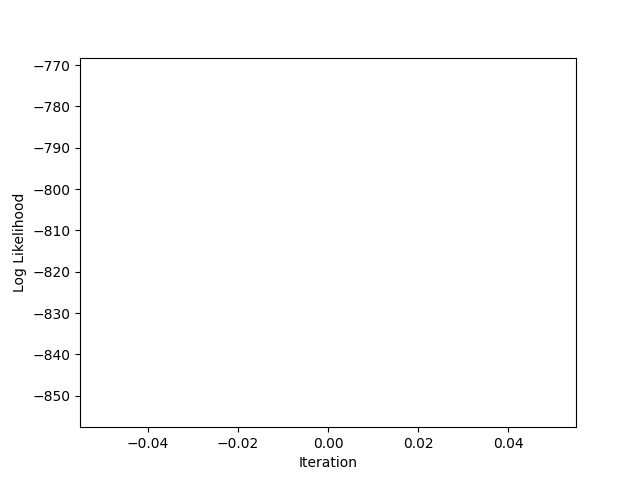
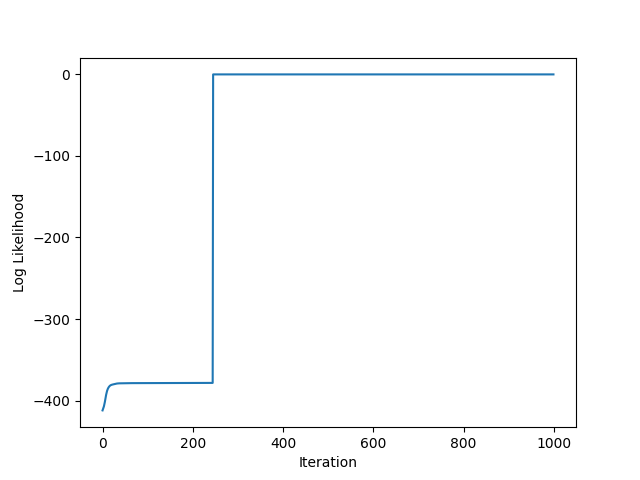
trained model

diff --git a/starterCode/nlputil.py b/starterCode/nlputil.py
@@ -16,7 +16,7 @@ import sys
 #                             (i.e., this maps strings to matrices).
 #
 # There are parallel methods included for working with either word-based or character-based models.
-# In both cases, unknown words will always map to integer value 0. 
+# In both cases, unknown words will always map to integer value 0.
 
 # Note -- File IO is slow, so it's best if you can keep as much data in RAM as possible.
 # Converting to a word-based one-hot representation is EXTREMELY memory intensive (many huge vectors of ints).
@@ -43,7 +43,7 @@ def build_vocab_words(paths, sample_size):
             with open(os.path.join(path, filename), encoding='utf-8') as fh:
                 sequence = fh.read()
                 tokenized_seq = sequence.split()
-                if len(tokenized_seq) < 250 and len(tokenized_seq) > 0:
+                if len(tokenized_seq) < 100 and len(tokenized_seq) > 0:
                     for token in tokenized_seq:
                         if token not in vocab:
                             vocab[token] = nextValue
@@ -58,6 +58,8 @@ def build_vocab_words(paths, sample_size):
     return vocab, int_to_word_map
 
 # Same as above, but for character models.
+
+
 def build_vocab_chars(paths, sample_size):
     vocab = {}
     nextValue = 0
@@ -85,12 +87,14 @@ def build_vocab_chars(paths, sample_size):
 # where N is the number of tokens in the sequence.
 def convert_words_to_ints(sample, vocab):
     sequence = sample.split()
-    answer =  np.zeros(len(sequence), dtype=np.uint)
+    answer = np.zeros(len(sequence), dtype=np.uint)
     for n, token in enumerate(sequence):
         answer[n] = vocab.get(token, 0)
     return answer
 
 # Same as above, but for characters.
+
+
 def convert_chars_to_ints(sample, vocab):
     answer = np.zeros(len(sample), dtype=np.uint)
     for n, token in enumerate(sample):
@@ -104,21 +108,23 @@ def convert_chars_to_ints(sample, vocab):
 # size observed on the training data.
 def convert_words_to_onehot(sample, vocab):
     sequence = sample.split()
-    onehot =  np.zeros((len(sequence), len(vocab)+1), dtype=np.uint)
+    onehot = np.zeros((len(sequence), len(vocab)+1), dtype=np.uint)
     for n, token in enumerate(sequence):
         onehot[n, vocab.get(token, 0)] = 1
     return onehot
 
 # Same as above, but for characters.
+
+
 def convert_chars_to_onehot(sample, vocab):
     onehot = np.zeros((len(sample), len(vocab)+1), dtype=np.uint)
     for n, token in enumerate(sample):
-        onehot[n, vocab.get(token, 0)]  = 1
+        onehot[n, vocab.get(token, 0)] = 1
     return onehot
 
 
 # Read every file located at given path, convert to one-hot OR integer representation,
-# and collect the results into a python list. 
+# and collect the results into a python list.
 def load_and_convert_data_words_to_onehot(paths, vocab):
     data = []
     for path in paths:
@@ -128,6 +134,8 @@ def load_and_convert_data_words_to_onehot(paths, vocab):
     return data
 
 # Same as above, but uses a character model
+
+
 def load_and_convert_data_chars_to_onehot(paths, vocab):
     data = []
     for path in paths:
@@ -136,6 +144,7 @@ def load_and_convert_data_chars_to_onehot(paths, vocab):
                 data.append(convert_chars_to_onehot(fh.read(), vocab))
     return data
 
+
 def load_and_convert_data_words_to_ints(paths, vocab, sample_size):
     data = []
     count = 0
@@ -143,7 +152,7 @@ def load_and_convert_data_words_to_ints(paths, vocab, sample_size):
         for filename in os.listdir(path):
             with open(os.path.join(path, filename), encoding='utf-8') as fh:
                 sample = convert_words_to_ints(fh.read(), vocab)
-                if len(sample) > 0 and len(sample) < 250:
+                if len(sample) > 0 and len(sample) < 100:
                     data.append(sample)
                     count += 1
             if count >= sample_size/2:
@@ -154,6 +163,8 @@ def load_and_convert_data_words_to_ints(paths, vocab, sample_size):
     return data
 
 # Same as above, but uses a character model
+
+
 def load_and_convert_data_chars_to_ints(paths, vocab, sample_size):
     data = []
     count = 0
@@ -169,10 +180,11 @@ def load_and_convert_data_chars_to_ints(paths, vocab, sample_size):
         if count == sample_size:
             break
     return data
-    
+
+
 if __name__ == '__main__':
-    print("NLP Util smoketest.");
-    paths =  ['../data/imdbFor246/train/pos', '../data/imdbFor246/train/neg']
+    print("NLP Util smoketest.")
+    paths = ['../data/imdbFor246/train/pos', '../data/imdbFor246/train/neg']
     print("Begin loading vocab... ", end='')
     sys.stdout.flush()
     begin = time()
@@ -186,9 +198,7 @@ if __name__ == '__main__':
     end = time()
     print('done in', end-begin, 'seconds.')
 
-
     print("Data[0] = ", data[0])
     print('Press enter to quit.')
     input()
     print('Quitting.. may take some time to free memory.')
-

diff --git a/starterCode/hmm.py b/starterCode/hmm.py
@@ -420,6 +420,10 @@ class HMM:
             loglike = self.loglikelihood_helper(sample)/len(dataset)
             if i > 1:
                 if loglike - loglikes[i-1] < epsilon:
+                    self.save(os.path.join(
+                        "../modelFile/", "model" + str(int(i/5))))
+                    self.get_figure(
+                        range(1, i+1), loglikes[0:i], 'Iteration', 'Log Likelihood')
                     break
             loglikes[i] = loglike
             if i % 5 == 0:
@@ -428,8 +432,6 @@ class HMM:
                 self.get_figure(
                     range(1, i+1), loglikes[0:i], 'Iteration', 'Log Likelihood')
         print("Log Likelihoods:", loglikes)
-        self.get_figure(range(len(loglikes)), loglikes,
-                        'Iteration', 'Log Likelihood')
 
     def get_figure(self, xvalues, yvalues, xaxisname, yaxisname):
         fig = plt.figure()
